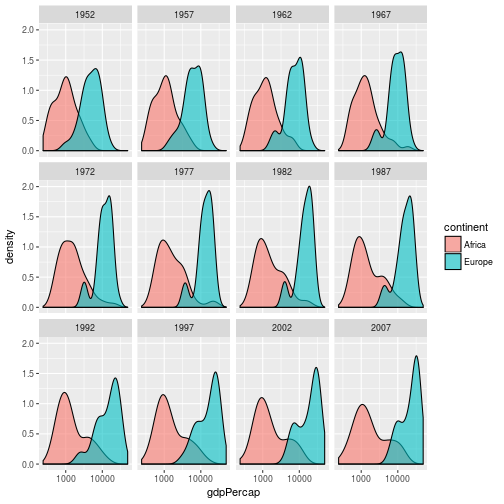
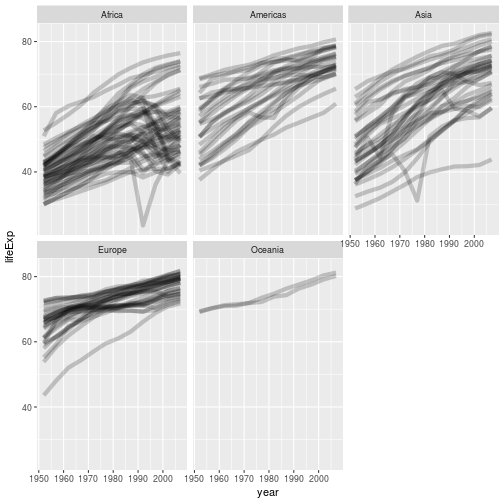
Add challenge with transparency/width

diff --git a/_episodes/07-plot-ggplot2.md b/_episodes/07-plot-ggplot2.md
@@ -287,7 +287,29 @@ The `facet_wrap` layer took a "formula" as its argument, denoted by the tilde
 `colour=continent` from the aesthetic since colouring each line by continent conveys no additional
 information.
 
-## Transformations and statistics
+> ## Challenge 3
+> 
+> Modify the figure so that each line is semi-transparent, and thicker.
+> 
+> Hint: There is a cheatsheet for `ggplot2` included with Rstudio, which lists the aesthetics commonly
+> used with each geom
+> 
+> > ## Solution
+> > 
+> > 
+> > ~~~
+> > gapminder %>% ggplot(aes(x = year, y = lifeExp, group = country)) +
+> >   geom_line(alpha=0.2, size=2) + facet_wrap( ~ continent)
+> > ~~~
+> > {: .language-r}
+> > 
+> > <img src="../fig/rmd-06-unnamed-chunk-5-1.png" title="plot of chunk unnamed-chunk-5" alt="plot of chunk unnamed-chunk-5" style="display: block; margin: auto;" />
+> > 
+> {: .solution}
+{: .challenge}
+
+
+## Transformations 
 
 Ggplot also makes it easy to overlay statistical models over the data. To
 demonstrate we'll go back to our first example:
@@ -326,90 +348,10 @@ x-axis.
 
 > ## Tip Reminder: Setting an aesthetic to a value instead of a mapping
 >
-> Notice that we used `geom_point(alpha = 0.5)`. As the previous tip mentioned, using a setting outside of the `aes()` function will cause this value to be used for all points, which is what we want in this case. But just like any other aesthetic setting, *alpha* can also be mapped to a variable in the data. For example, we can give a different transparency to each continent with `geom_point(aes(alpha = continent))` (although in this example, this isn't 
+> Notice that we used `geom_point(alpha = 0.5)`. As the previous tip mentioned, using a setting outside of the `aes()` function will cause this value to be used for all points, which is what we want in this case. But just like any other aesthetic setting, *alpha* can also be mapped to a variable in the data. For example, we could give a different transparency to each continent with `geom_point(aes(alpha = continent))` (although in this example, this isn't 
 > very useful as a visualisation technique.
 {: .callout}
 
-We can fit a simple relationship to the data by adding another layer,
-`geom_smooth`:
-
-
-~~~
-gapminder %>% ggplot(aes(x = gdpPercap, y = lifeExp)) +
-  geom_point() + scale_x_log10() + geom_smooth(method = "lm")
-~~~
-{: .language-r}
-
-<img src="../fig/rmd-06-lm-fit-1.png" title="plot of chunk lm-fit" alt="plot of chunk lm-fit" style="display: block; margin: auto;" />
-
-We can make the line thicker by *setting* the **size** aesthetic in the
-`geom_smooth` layer:
-
-
-~~~
-gapminder %>% ggplot(aes(x = gdpPercap, y = lifeExp)) +
-  geom_point() + scale_x_log10() + geom_smooth(method = "lm", size = 1.5)
-~~~
-{: .language-r}
-
-<img src="../fig/rmd-06-lm-fit2-1.png" title="plot of chunk lm-fit2" alt="plot of chunk lm-fit2" style="display: block; margin: auto;" />
-
-There are two ways an *aesthetic* can be specified. Here we *set* the **size**
-aesthetic by passing it as an argument to `geom_smooth`. Previously in the
-lesson we've used the `aes` function to define a *mapping* between data
-variables and their visual representation.
-
-> ## Challenge 3
->
-> Modify the color and size of the points on the point layer in the previous
-> example.
->
-> Hint: do not use the `aes` function.
->
-> > ## Solution to challenge 3
-> >
-> > Modify the color and size of the points on the point layer in the previous
-> > example.
-> >
-> > Hint: do not use the `aes` function.
-> >
-> > 
-> > ~~~
-> > gapminder %>% ggplot(aes(x = gdpPercap, y = lifeExp)) +
-> >  geom_point(size = 3, color = "orange") + scale_x_log10() +
-> >  geom_smooth(method = "lm", size = 1.5)
-> > ~~~
-> > {: .language-r}
-> > 
-> > <img src="../fig/rmd-06-ch4a-sol-1.png" title="plot of chunk ch4a-sol" alt="plot of chunk ch4a-sol" style="display: block; margin: auto;" />
-> {: .solution}
-{: .challenge}
-
-
-> ## Challenge 4
->
-> Modify your solution to Challenge 4a so that the
-> points are now a different shape and are colored by continent with new
-> trendlines.  Hint: The color argument can be used inside the aesthetic.
->
-> > ## Solution to challenge 4
-> >
-> > Modify Challenge 4 so that the points are now a different shape and are
-> > colored by continent with new trendlines.
-> >
-> > Hint: The color argument can be used inside the aesthetic.
-> >
-> >
-> >~~~
-> > gapminder %>% ggplot(aes(x = gdpPercap, y = lifeExp, color = continent)) +
-> > geom_point(size = 3, shape = 17) + scale_x_log10() +
-> > geom_smooth(method = "lm", size = 1.5)
-> >~~~
-> >{: .language-r}
-> >
-> ><img src="../fig/rmd-06-ch4b-sol-1.png" title="plot of chunk ch4b-sol" alt="plot of chunk ch4b-sol" style="display: block; margin: auto;" />
-> {: .solution}
-{: .challenge}
 
 
 > ## Challenge 5
@@ -418,7 +360,6 @@ variables and their visual representation.
 > usually use a legend when plotting multiple series, you will find that this takes
 > up all of the plotting space; hide the legend.
 > 
-> Hint: There is a cheatsheet for `ggplot2` included with Rstudio
 > 
 > > ## Solution to challenge 5
 > > We can colour each country's line using the `colour` aesthetic:
@@ -500,7 +441,7 @@ gapminder %>%
 ~~~
 {: .language-r}
 
-<img src="../fig/rmd-06-unnamed-chunk-5-1.png" title="plot of chunk unnamed-chunk-5" alt="plot of chunk unnamed-chunk-5" style="display: block; margin: auto;" />
+<img src="../fig/rmd-06-unnamed-chunk-6-1.png" title="plot of chunk unnamed-chunk-6" alt="plot of chunk unnamed-chunk-6" style="display: block; margin: auto;" />
 
 
 
